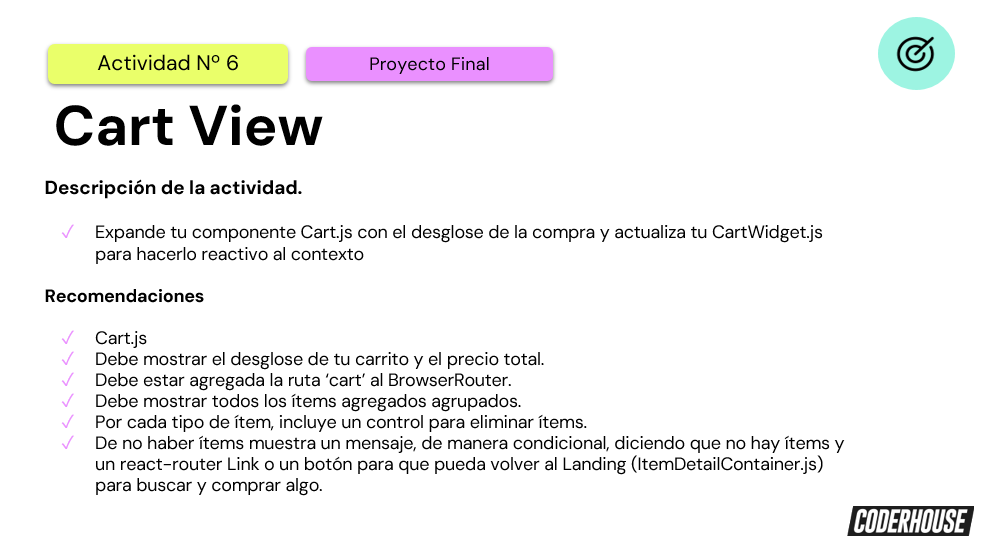
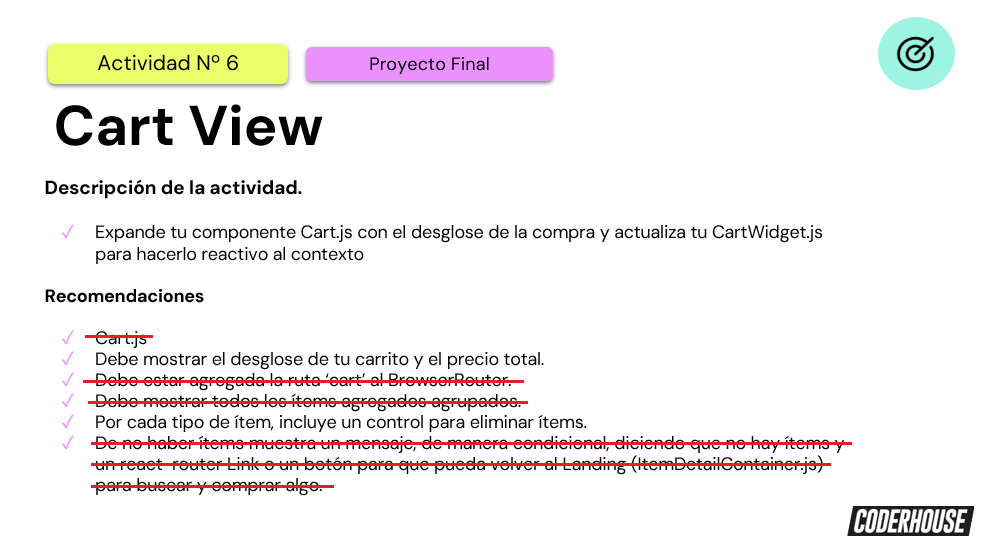
Act.6 - Añadida pantalla para carrito vacío
Si se encuentra en la ruta '/cart', pero no hay ítems en el carrito,
muestra un mensaje y un botón para volver al inicio.

Changed region(s): [[0.0916, 0.808, 0.8545, 0.9013], [0.0916, 0.6837, 0.5493, 0.7459], [0.0916, 0.5905, 0.1526, 0.6216]]

diff --git a/src/components/Cart.jsx b/src/components/Cart.jsx
@@ -1,9 +1,15 @@
 import { useContext } from 'react'
 import { CartContext } from '../contexts/CartContext'
 import { Button } from 'react-bootstrap'
+import { Link } from 'react-router-dom'
 
 function Cart () {
   const { cartList } = useContext(CartContext)
+
+  if (cartList.length === 0) {
+    return <EmptyCart />
+  }
+
   return (
     <main className='d-flex'>
       <section className='m-5' style={{ width: '60%' }}>
@@ -53,6 +59,38 @@ function Cart () {
         <Button variant='secondary' size='lg' style={{ width: '100%' }}>Proceed to Checkout</Button>
       </aside>
     </main>
+  )
+}
+
+function EmptyCart () {
+  return (
+    <>
+      <main>
+        <section className='m-5'>
+          <h2>Shopping Cart</h2>
+          <hr />
+          <div style={{
+            margin: '1em 0',
+            textAlign: 'center'
+          }}
+          >
+            <img style={{ width: 250 }} src='https://gist.github.com/assets/107598069/039068a0-f582-40fe-82bd-3e1c9021d0cd' alt='Imágen carrito vacío' />
+            <p style={{
+              fontSize: '1.2em',
+              fontFamily: 'sans-serif',
+              fontWeight: '600'
+            }}
+            >Tu carrito está vacío
+            </p>
+          </div>
+          <div className='text-center'>
+            <Link to='/'>
+              <Button variant='secondary' size='lg'>Volver</Button>
+            </Link>
+          </div>
+        </section>
+      </main>
+    </>
   )
 }
 
